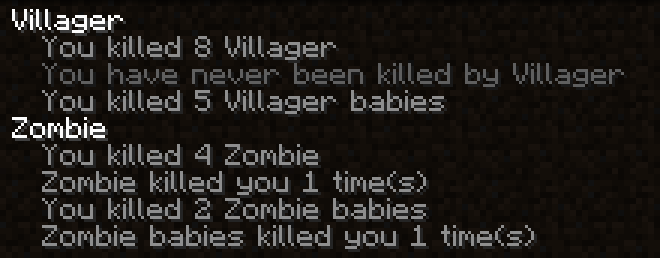
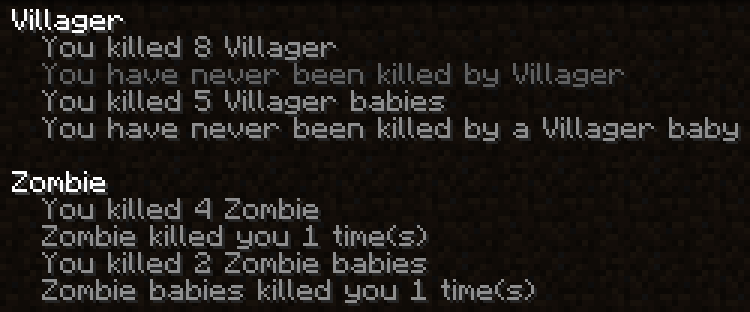
Update for 1.19.4

Changed region(s): [[0.0, 0.031, 1.0, 0.9922]]

diff --git a/src/main/java/io/github/friedkeenan/baby_powder/mixin/ShowBabyKillsInMobRowMixin.java b/src/main/java/io/github/friedkeenan/baby_powder/mixin/ShowBabyKillsInMobRowMixin.java
@@ -1,8 +1,6 @@
 package io.github.friedkeenan.baby_powder.mixin;
 
-import java.util.ArrayList;
 import java.util.Arrays;
-import java.util.function.Function;
 
 import org.jetbrains.annotations.Nullable;
 import org.spongepowered.asm.mixin.Final;
@@ -11,7 +9,7 @@ import org.spongepowered.asm.mixin.Shadow;
 import org.spongepowered.asm.mixin.injection.At;
 import org.spongepowered.asm.mixin.injection.Coerce;
 import org.spongepowered.asm.mixin.injection.Inject;
-import org.spongepowered.asm.mixin.injection.Redirect;
+import org.spongepowered.asm.mixin.injection.ModifyArg;
 import org.spongepowered.asm.mixin.injection.callback.CallbackInfo;
 
 import com.mojang.blaze3d.vertex.PoseStack;
@@ -22,10 +20,7 @@ import net.fabricmc.api.EnvType;
 import net.fabricmc.api.Environment;
 import net.minecraft.client.gui.Font;
 import net.minecraft.client.gui.GuiComponent;
-import net.minecraft.network.chat.CommonComponents;
 import net.minecraft.network.chat.Component;
-import net.minecraft.network.chat.ComponentUtils;
-import net.minecraft.network.chat.MutableComponent;
 import net.minecraft.stats.StatsCounter;
 import net.minecraft.world.entity.EntityType;
 
@@ -62,11 +57,15 @@ public class ShowBabyKillsInMobRowMixin {
         final var num_baby_kills = stats.getValue(BabyPowderStats.BABIES_KILLED.get(entity));
         if (num_baby_kills > 0) {
             this.baby_kills = Component.translatable("stat_type.baby_powder.baby_kills", num_baby_kills, this.mobName);
+        } else {
+            this.baby_kills = Component.translatable("stat_type.baby_powder.baby_kills.none", this.mobName);
         }
 
         final var num_babies_killed_by = stats.getValue(BabyPowderStats.BABIES_KILLED_BY.get(entity));
         if (num_babies_killed_by > 0) {
-            this.babies_killed_by =Component.translatable("stat_type.baby_powder.babies_killed_by", this.mobName, num_babies_killed_by);
+            this.babies_killed_by = Component.translatable("stat_type.baby_powder.babies_killed_by", this.mobName, num_babies_killed_by);
+        } else {
+            this.babies_killed_by = Component.translatable("stat_type.baby_powder.babies_killed_by.none", this.mobName);
         }
     }
 
@@ -85,22 +84,21 @@ public class ShowBabyKillsInMobRowMixin {
         }
     }
 
-    private static MutableComponent JoinLinesForNarration(Component... components) {
-        final var list = new ArrayList<>(Arrays.asList(components));
-        list.removeIf(x -> x == null);
-
-        return ComponentUtils.formatList(list, CommonComponents.NARRATION_SEPARATOR, Function.identity());
-    }
-
-    @Redirect(
+    @ModifyArg(
         at = @At(
             value = "INVOKE",
-            target = "Lnet/minecraft/network/chat/CommonComponents;joinForNarration(Lnet/minecraft/network/chat/Component;Lnet/minecraft/network/chat/Component;)Lnet/minecraft/network/chat/MutableComponent;"
+            target = "Lnet/minecraft/network/chat/CommonComponents;joinForNarration([Lnet/minecraft/network/chat/Component;)Lnet/minecraft/network/chat/MutableComponent;"
         ),
 
+        index  = 0,
         method = "getNarration"
     )
-    private MutableComponent addBabyKillNarration(Component kills, Component killed_by) {
-        return JoinLinesForNarration(kills, killed_by, this.baby_kills, this.babies_killed_by);
+    private Component[] addBabyKillNarration(Component components[]) {
+        var result = Arrays.copyOf(components, components.length + 2);
+
+        result[components.length + 0] = this.baby_kills;
+        result[components.length + 1] = this.babies_killed_by;
+
+        return result;
     }
 }

diff --git a/src/main/java/io/github/friedkeenan/baby_powder/mixin/AllowBabyKillsInMobStatistics.java b/src/main/java/io/github/friedkeenan/baby_powder/mixin/AllowBabyKillsInMobStatistics.java
@@ -1,0 +1,52 @@
+package io.github.friedkeenan.baby_powder.mixin;
+
+import org.spongepowered.asm.mixin.Final;
+import org.spongepowered.asm.mixin.Mixin;
+import org.spongepowered.asm.mixin.Shadow;
+import org.spongepowered.asm.mixin.injection.At;
+import org.spongepowered.asm.mixin.injection.Inject;
+import org.spongepowered.asm.mixin.injection.callback.CallbackInfo;
+
+import io.github.friedkeenan.baby_powder.ItemHeightIncreaser;
+import io.github.friedkeenan.baby_powder.StatsScreenGetter;
+import net.fabricmc.api.EnvType;
+import net.fabricmc.api.Environment;
+import net.minecraft.client.Minecraft;
+import net.minecraft.client.gui.Font;
+import net.minecraft.client.gui.screens.achievement.StatsScreen;
+
+/*
+    This should just be an accessor mixin, but sadly
+    when it is written that way it raises a compile error
+    *only* when compiling. It runs fine when running through vscode.
+*/
+@Mixin(targets = {"net/minecraft/client/gui/screens/achievement/StatsScreen$MobsStatisticsList"})
+@Environment(EnvType.CLIENT)
+public class AllowBabyKillsInMobStatistics implements StatsScreenGetter {
+    @Shadow
+    @Final
+    private StatsScreen field_18763;
+
+    /* Synthetic field from being a nested class. */
+    public StatsScreen getStatsScreen() {
+        return this.field_18763;
+    }
+
+    private Font getFont() {
+        return ((ScreenAccessor) this.getStatsScreen()).getFont();
+    }
+
+    @Inject(at = @At("TAIL"), method = "<init>")
+    private void constructor(StatsScreen stats_screen, Minecraft minecraft, CallbackInfo info) {
+        /* Add enough vertical space for two more lines. */
+        ((ItemHeightIncreaser) this).increaseItemheight(this.getFont().lineHeight * 2);
+
+        /*
+            NOTE: Currently text can run off the right edge
+            of the screen and thus not be highlighted correctly.
+
+            It would be nice to fix this, but I think the simple,
+            non-invasive solutions would end up looking weird.
+        */
+    }
+}

diff --git a/src/main/java/io/github/friedkeenan/baby_powder/mixin/ListItemHeightIncreaser.java b/src/main/java/io/github/friedkeenan/baby_powder/mixin/ListItemHeightIncreaser.java
@@ -1,0 +1,24 @@
+package io.github.friedkeenan.baby_powder.mixin;
+
+import org.spongepowered.asm.mixin.Final;
+import org.spongepowered.asm.mixin.Mixin;
+import org.spongepowered.asm.mixin.Mutable;
+import org.spongepowered.asm.mixin.Shadow;
+
+import io.github.friedkeenan.baby_powder.ItemHeightIncreaser;
+import net.fabricmc.api.EnvType;
+import net.fabricmc.api.Environment;
+import net.minecraft.client.gui.components.AbstractSelectionList;
+
+@Mixin(AbstractSelectionList.class)
+@Environment(EnvType.CLIENT)
+public class ListItemHeightIncreaser implements ItemHeightIncreaser {
+    @Mutable
+    @Final
+    @Shadow
+    private int itemHeight;
+
+    public void increaseItemheight(int additional_height) {
+        this.itemHeight += additional_height;
+    }
+}

diff --git a/src/main/java/io/github/friedkeenan/baby_powder/ItemHeightIncreaser.java b/src/main/java/io/github/friedkeenan/baby_powder/ItemHeightIncreaser.java
@@ -1,0 +1,5 @@
+package io.github.friedkeenan.baby_powder;
+
+public interface ItemHeightIncreaser {
+    public void increaseItemheight(int additional_height);
+}
